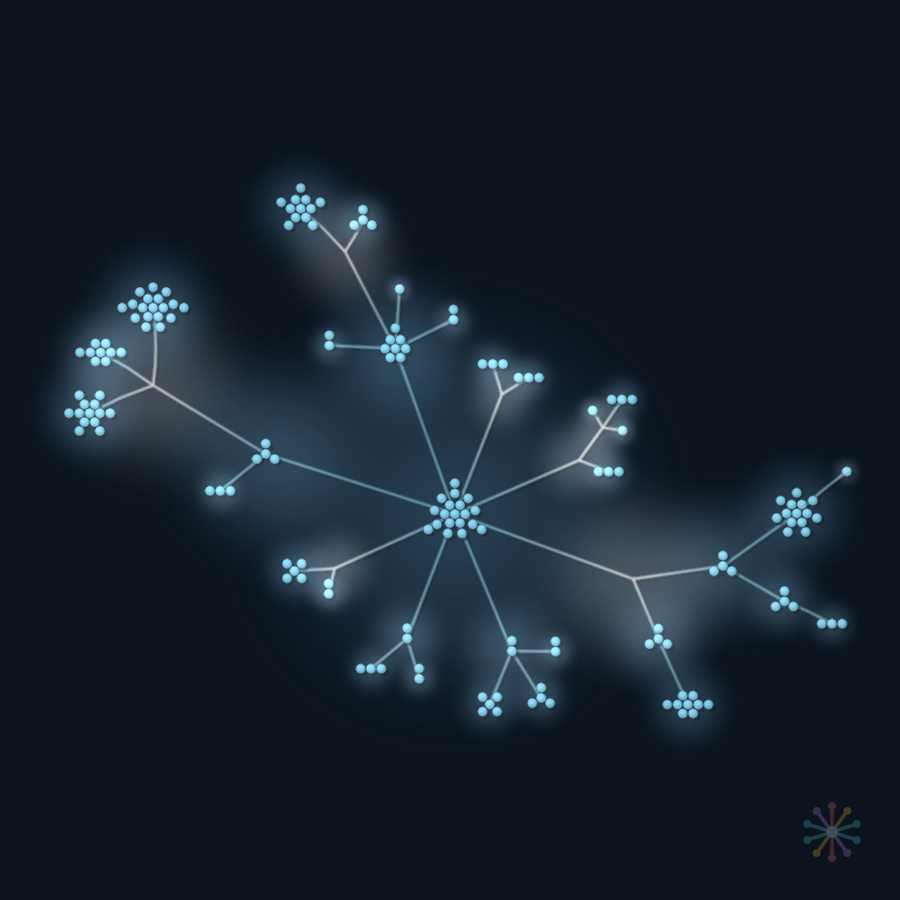
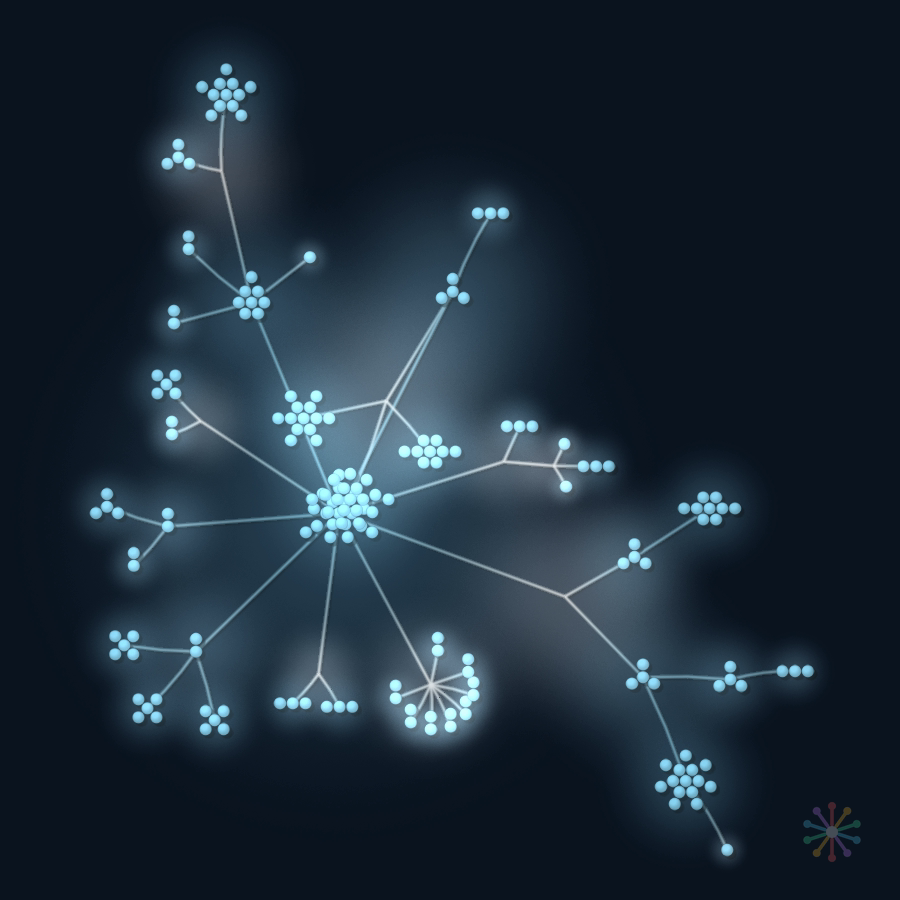
site: weekly update 2026-10-31 (status, chronicles)

diff --git a/history/index.html b/history/index.html
@@ -178,8 +178,8 @@ section.rg-flow{margin-top:var(--rg-space-8);padding:0;background:none;border:0;
 .jc h3 a{color:var(--rg-text)}.jc-r{font:500 .7rem/1.7 var(--rg-font-mono);letter-spacing:.08em;text-transform:uppercase;color:var(--rg-text);border-color:var(--pa)}
 .jc-x{font:1rem/1.75 var(--rg-font-body);color:var(--rg-text-soft)}
 @media(max-width:760px){.jig{grid-template-columns:1fr}}
-</style></head><body><header class="tp-top"><div class="tp-in"><a class="tp-brand" href="../"><svg class="tp-logo" viewBox="0 0 64 64" width="28" height="28" aria-hidden="true" focusable="false"><defs><clipPath id="rg-doc"><path d="M13 16H33A7 7 0 0 1 40 23V51A7 7 0 0 1 33 58H13A7 7 0 0 1 6 51V23A7 7 0 0 1 13 16Z"/></clipPath></defs><path fill="var(--rg-logo-doc)" d="M13 16H33A7 7 0 0 1 40 23V51A7 7 0 0 1 33 58H13A7 7 0 0 1 6 51V23A7 7 0 0 1 13 16Z"/><path fill="var(--rg-logo-lens)" d="M24 23A17 17 0 1 0 58 23A17 17 0 1 0 24 23Z"/><path fill="var(--rg-logo-hit)" d="M24 23A17 17 0 1 0 58 23A17 17 0 1 0 24 23Z" clip-path="url(#rg-doc)"/></svg><span class="tp-id"><b>RAGite</b><span class="tp-kick">Rust · SQLite extension · Model2Vec · Linux x86-64</span></span></a><nav class="tp-tabs" aria-label="Site"><a href="../">Handbook</a><a href="../history/" class="on" aria-current="page">History</a></nav><div class="tp-pair"><span class="tp-pair-l">pair</span><nav class="tp-seg" aria-label="Sibling sites"><a href="https://pihme.github.io/ragite/" class="on" aria-current="true"><svg class="tp-chip tp-logo" viewBox="0 0 64 64" width="24" height="24" aria-hidden="true" focusable="false"><defs><clipPath id="rg-doc-chip-ragite"><path d="M13 16H33A7 7 0 0 1 40 23V51A7 7 0 0 1 33 58H13A7 7 0 0 1 6 51V23A7 7 0 0 1 13 16Z"/></clipPath></defs><path fill="var(--rg-logo-doc)" d="M13 16H33A7 7 0 0 1 40 23V51A7 7 0 0 1 33 58H13A7 7 0 0 1 6 51V23A7 7 0 0 1 13 16Z"/><path fill="var(--rg-logo-lens)" d="M24 23A17 17 0 1 0 58 23A17 17 0 1 0 24 23Z"/><path fill="var(--rg-logo-hit)" d="M24 23A17 17 0 1 0 58 23A17 17 0 1 0 24 23Z" clip-path="url(#rg-doc-chip-ragite)"/></svg>RAGite</a><a href="https://pihme.github.io/ragite-demo/"><svg class="tp-chip tp-logo" viewBox="0 0 64 64" width="24" height="24" aria-hidden="true" focusable="false"><defs><clipPath id="rg-doc-chip-ragite-demo"><path d="M13 16H33A7 7 0 0 1 40 23V51A7 7 0 0 1 33 58H13A7 7 0 0 1 6 51V23A7 7 0 0 1 13 16Z"/></clipPath></defs><path fill="var(--rg-logo-doc)" d="M13 16H33A7 7 0 0 1 40 23V51A7 7 0 0 1 33 58H13A7 7 0 0 1 6 51V23A7 7 0 0 1 13 16Z"/><path fill="var(--rg-logo-lens-demo)" d="M24 23A17 17 0 1 0 58 23A17 17 0 1 0 24 23Z"/><path fill="var(--rg-logo-hit)" d="M24 23A17 17 0 1 0 58 23A17 17 0 1 0 24 23Z" clip-path="url(#rg-doc-chip-ragite-demo)"/></svg>RAGite demo</a></nav></div><nav class="tp-ext" aria-label="Project links"><a class="tp-ib" href="https://github.com/pihme/ragite/blob/main/docs/guide.md" aria-label="User guide" data-tip="User guide"><svg viewBox="0 0 24 24" fill="none" stroke="currentColor" stroke-width="1.8" stroke-linecap="round" stroke-linejoin="round" aria-hidden="true" focusable="false"><path d="M4 19.5V5.5A2.5 2.5 0 0 1 6.5 3H20v14.5H6.5A2.5 2.5 0 0 0 4 20a1 1 0 0 0 1 1h15"/><path d="M8.5 7.5h7M8.5 11h5"/></svg></a><a class="tp-ib" href="https://github.com/pihme/ragite/blob/main/SPEC.md" aria-label="Specification" data-tip="Specification"><svg viewBox="0 0 24 24" fill="none" stroke="currentColor" stroke-width="1.8" stroke-linecap="round" stroke-linejoin="round" aria-hidden="true" focusable="false"><path d="M14 3H6.5A1.5 1.5 0 0 0 5 4.5v15A1.5 1.5 0 0 0 6.5 21h11a1.5 1.5 0 0 0 1.5-1.5V8z"/><path d="M14 3v5h5M8.5 13h7M8.5 16.5h5"/></svg></a><a class="tp-ib" href="https://github.com/pihme/ragite/releases" aria-label="Releases" data-tip="Releases"><svg viewBox="0 0 24 24" fill="none" stroke="currentColor" stroke-width="1.8" stroke-linecap="round" stroke-linejoin="round" aria-hidden="true" focusable="false"><path d="M3 12.2V4.5A1.5 1.5 0 0 1 4.5 3h7.7l8.8 8.8-9.2 9.2z"/><circle cx="8" cy="8" r="1.6"/></svg></a><a class="tp-ib" href="https://github.com/pihme/ragite/issues" aria-label="Issues" data-tip="Issues"><svg viewBox="0 0 24 24" fill="none" stroke="currentColor" stroke-width="1.8" stroke-linecap="round" stroke-linejoin="round" aria-hidden="true" focusable="false"><circle cx="12" cy="12" r="8.5"/><circle cx="12" cy="12" r="1.6" fill="currentColor" stroke="none"/></svg></a><a class="tp-ib" href="https://github.com/pihme/ragite" aria-label="GitHub repository" data-tip="GitHub repository"><svg viewBox="0 0 16 16" fill="currentColor" aria-hidden="true" focusable="false"><path d="M8 0C3.58 0 0 3.58 0 8c0 3.54 2.29 6.53 5.47 7.59.4.07.55-.17.55-.38 0-.19-.01-.82-.01-1.49-2.01.37-2.53-.49-2.69-.94-.09-.23-.48-.94-.82-1.13-.28-.15-.68-.52-.01-.53.63-.01 1.08.58 1.23.82.72 1.21 1.87.87 2.33.66.07-.52.28-.87.51-1.07-1.78-.2-3.64-.89-3.64-3.95 0-.87.31-1.59.82-2.15-.08-.2-.36-1.02.08-2.12 0 0 .67-.21 2.2.82.64-.18 1.32-.27 2-.27.68 0 1.36.09 2 .27 1.53-1.04 2.2-.82 2.2-.82.44 1.1.16 1.92.08 2.12.51.56.82 1.27.82 2.15 0 3.07-1.87 3.75-3.65 3.95.29.25.54.73.54 1.48 0 1.07-.01 1.93-.01 2.2 0 .21.15.46.55.38A8.013 8.013 0 0016 8c0-4.42-3.58-8-8-8z"/></svg></a></nav></div></header><div class="tp-wrap tp-full"><main class="tp-page"><div class="crumb"><a href="../">pihme / ragite</a> · <span style="text-transform:uppercase">History</span></div><h1>History</h1><div class="hi-lanes" aria-hidden="true"><span class="hi-rg">RAGITE</span><span></span><span class="hi-dm">RAGITE DEMO</span></div><div class="hi-tl"><div class="hi-mo" id="oct-2026"><div class="hi-c hi-L hi-rg"><span class="hi-lt">RAGITE</span><div class="hi-h"><h2>v1.0.0</h2><a class="hi-btn" href="https://github.com/pihme/ragite/releases/tag/ragite/v1.0.0">Release notes</a></div><a class="cfz" href="img/ragite-2026-10-full.png" title="Show larger"><img class="hi-s" src="img/ragite-2026-10.png" alt="Code Fireworks snapshot of RAGite at v1.0.0" width="460" height="460" loading="lazy"></a><a class="hi-cap" href="https://x.com/code_fireworks"><b>✳</b> Code Fireworks</a></div><div class="hi-lw"><span class="hi-pill">Oct 2026</span></div><div class="hi-c hi-R hi-dm"><span class="hi-lt">RAGITE DEMO</span><div class="hi-h"><h2>v1.0.0</h2><a class="hi-btn" href="https://github.com/pihme/ragite-demo/releases/tag/ragite-demo/v1.0.0">Release notes</a></div><a class="cfz" href="img/ragite-demo-2026-10-full.png" title="Show larger"><img class="hi-s" src="img/ragite-demo-2026-10.png" alt="Code Fireworks snapshot of RAGite demo at v1.0.0" width="460" height="460" loading="lazy"></a><a class="hi-cap" href="https://x.com/code_fireworks"><b>✳</b> Code Fireworks</a></div></div></div>
+</style></head><body><header class="tp-top"><div class="tp-in"><a class="tp-brand" href="../"><svg class="tp-logo" viewBox="0 0 64 64" width="28" height="28" aria-hidden="true" focusable="false"><defs><clipPath id="rg-doc"><path d="M13 16H33A7 7 0 0 1 40 23V51A7 7 0 0 1 33 58H13A7 7 0 0 1 6 51V23A7 7 0 0 1 13 16Z"/></clipPath></defs><path fill="var(--rg-logo-doc)" d="M13 16H33A7 7 0 0 1 40 23V51A7 7 0 0 1 33 58H13A7 7 0 0 1 6 51V23A7 7 0 0 1 13 16Z"/><path fill="var(--rg-logo-lens)" d="M24 23A17 17 0 1 0 58 23A17 17 0 1 0 24 23Z"/><path fill="var(--rg-logo-hit)" d="M24 23A17 17 0 1 0 58 23A17 17 0 1 0 24 23Z" clip-path="url(#rg-doc)"/></svg><span class="tp-id"><b>RAGite</b><span class="tp-kick">Rust · SQLite extension · Model2Vec · Linux x86-64</span></span></a><nav class="tp-tabs" aria-label="Site"><a href="../">Handbook</a><a href="../history/" class="on" aria-current="page">History</a></nav><div class="tp-pair"><span class="tp-pair-l">pair</span><nav class="tp-seg" aria-label="Sibling sites"><a href="https://pihme.github.io/ragite/" class="on" aria-current="true"><svg class="tp-chip tp-logo" viewBox="0 0 64 64" width="24" height="24" aria-hidden="true" focusable="false"><defs><clipPath id="rg-doc-chip-ragite"><path d="M13 16H33A7 7 0 0 1 40 23V51A7 7 0 0 1 33 58H13A7 7 0 0 1 6 51V23A7 7 0 0 1 13 16Z"/></clipPath></defs><path fill="var(--rg-logo-doc)" d="M13 16H33A7 7 0 0 1 40 23V51A7 7 0 0 1 33 58H13A7 7 0 0 1 6 51V23A7 7 0 0 1 13 16Z"/><path fill="var(--rg-logo-lens)" d="M24 23A17 17 0 1 0 58 23A17 17 0 1 0 24 23Z"/><path fill="var(--rg-logo-hit)" d="M24 23A17 17 0 1 0 58 23A17 17 0 1 0 24 23Z" clip-path="url(#rg-doc-chip-ragite)"/></svg>RAGite</a><a href="https://pihme.github.io/ragite-demo/"><svg class="tp-chip tp-logo" viewBox="0 0 64 64" width="24" height="24" aria-hidden="true" focusable="false"><defs><clipPath id="rg-doc-chip-ragite-demo"><path d="M13 16H33A7 7 0 0 1 40 23V51A7 7 0 0 1 33 58H13A7 7 0 0 1 6 51V23A7 7 0 0 1 13 16Z"/></clipPath></defs><path fill="var(--rg-logo-doc)" d="M13 16H33A7 7 0 0 1 40 23V51A7 7 0 0 1 33 58H13A7 7 0 0 1 6 51V23A7 7 0 0 1 13 16Z"/><path fill="var(--rg-logo-lens-demo)" d="M24 23A17 17 0 1 0 58 23A17 17 0 1 0 24 23Z"/><path fill="var(--rg-logo-hit)" d="M24 23A17 17 0 1 0 58 23A17 17 0 1 0 24 23Z" clip-path="url(#rg-doc-chip-ragite-demo)"/></svg>RAGite demo</a></nav></div><nav class="tp-ext" aria-label="Project links"><a class="tp-ib" href="https://github.com/pihme/ragite/blob/main/docs/guide.md" aria-label="User guide" data-tip="User guide"><svg viewBox="0 0 24 24" fill="none" stroke="currentColor" stroke-width="1.8" stroke-linecap="round" stroke-linejoin="round" aria-hidden="true" focusable="false"><path d="M4 19.5V5.5A2.5 2.5 0 0 1 6.5 3H20v14.5H6.5A2.5 2.5 0 0 0 4 20a1 1 0 0 0 1 1h15"/><path d="M8.5 7.5h7M8.5 11h5"/></svg></a><a class="tp-ib" href="https://github.com/pihme/ragite/blob/main/SPEC.md" aria-label="Specification" data-tip="Specification"><svg viewBox="0 0 24 24" fill="none" stroke="currentColor" stroke-width="1.8" stroke-linecap="round" stroke-linejoin="round" aria-hidden="true" focusable="false"><path d="M14 3H6.5A1.5 1.5 0 0 0 5 4.5v15A1.5 1.5 0 0 0 6.5 21h11a1.5 1.5 0 0 0 1.5-1.5V8z"/><path d="M14 3v5h5M8.5 13h7M8.5 16.5h5"/></svg></a><a class="tp-ib" href="https://github.com/pihme/ragite/releases" aria-label="Releases" data-tip="Releases"><svg viewBox="0 0 24 24" fill="none" stroke="currentColor" stroke-width="1.8" stroke-linecap="round" stroke-linejoin="round" aria-hidden="true" focusable="false"><path d="M3 12.2V4.5A1.5 1.5 0 0 1 4.5 3h7.7l8.8 8.8-9.2 9.2z"/><circle cx="8" cy="8" r="1.6"/></svg></a><a class="tp-ib" href="https://github.com/pihme/ragite/issues" aria-label="Issues" data-tip="Issues"><svg viewBox="0 0 24 24" fill="none" stroke="currentColor" stroke-width="1.8" stroke-linecap="round" stroke-linejoin="round" aria-hidden="true" focusable="false"><circle cx="12" cy="12" r="8.5"/><circle cx="12" cy="12" r="1.6" fill="currentColor" stroke="none"/></svg></a><a class="tp-ib" href="https://github.com/pihme/ragite" aria-label="GitHub repository" data-tip="GitHub repository"><svg viewBox="0 0 16 16" fill="currentColor" aria-hidden="true" focusable="false"><path d="M8 0C3.58 0 0 3.58 0 8c0 3.54 2.29 6.53 5.47 7.59.4.07.55-.17.55-.38 0-.19-.01-.82-.01-1.49-2.01.37-2.53-.49-2.69-.94-.09-.23-.48-.94-.82-1.13-.28-.15-.68-.52-.01-.53.63-.01 1.08.58 1.23.82.72 1.21 1.87.87 2.33.66.07-.52.28-.87.51-1.07-1.78-.2-3.64-.89-3.64-3.95 0-.87.31-1.59.82-2.15-.08-.2-.36-1.02.08-2.12 0 0 .67-.21 2.2.82.64-.18 1.32-.27 2-.27.68 0 1.36.09 2 .27 1.53-1.04 2.2-.82 2.2-.82.44 1.1.16 1.92.08 2.12.51.56.82 1.27.82 2.15 0 3.07-1.87 3.75-3.65 3.95.29.25.54.73.54 1.48 0 1.07-.01 1.93-.01 2.2 0 .21.15.46.55.38A8.013 8.013 0 0016 8c0-4.42-3.58-8-8-8z"/></svg></a></nav></div></header><div class="tp-wrap tp-full"><main class="tp-page"><div class="crumb"><a href="../">pihme / ragite</a> · <span style="text-transform:uppercase">History</span></div><h1>History</h1><div class="hi-lanes" aria-hidden="true"><span class="hi-rg">RAGITE</span><span></span><span class="hi-dm">RAGITE DEMO</span></div><div class="hi-tl"><div class="hi-mo" id="oct-2026"><div class="hi-c hi-L hi-rg"><span class="hi-lt">RAGITE</span><div class="hi-h"><h2>v1.1.0</h2><a class="hi-btn" href="https://github.com/pihme/ragite/releases/tag/ragite/v1.1.0">Release notes</a></div><a class="cfz" href="img/ragite-2026-10-full.png" title="Show larger"><img class="hi-s" src="img/ragite-2026-10.png" alt="Code Fireworks snapshot of RAGite at v1.1.0" width="460" height="460" loading="lazy"></a><a class="hi-cap" href="https://x.com/code_fireworks"><b>✳</b> Code Fireworks</a></div><div class="hi-lw"><span class="hi-pill">Oct 2026</span></div><div class="hi-c hi-R hi-dm"><span class="hi-lt">RAGITE DEMO</span><div class="hi-h"><h2>v1.0.0</h2><a class="hi-btn" href="https://github.com/pihme/ragite-demo/releases/tag/ragite-demo/v1.0.0">Release notes</a></div><a class="cfz" href="img/ragite-demo-2026-10-full.png" title="Show larger"><img class="hi-s" src="img/ragite-demo-2026-10.png" alt="Code Fireworks snapshot of RAGite demo at v1.0.0" width="460" height="460" loading="lazy"></a><a class="hi-cap" href="https://x.com/code_fireworks"><b>✳</b> Code Fireworks</a></div></div></div>
 <dialog class="cfbox" aria-label="Enlarged Code Fireworks render"><img alt="" width="900" height="900"><button type="button" class="cfx" aria-label="Close">&times;</button></dialog>
 <script>(function(){var d=document.querySelector('.cfbox');if(!d||!d.showModal)return;var i=d.querySelector('img');
 document.querySelectorAll('a.cfz').forEach(function(a){a.addEventListener('click',function(e){e.preventDefault();i.src=a.href;i.alt=a.querySelector('img').alt;d.showModal();});});
-d.addEventListener('click',function(){d.close();});d.addEventListener('close',function(){i.removeAttribute('src');});})();</script><footer><svg class="tp-logo" viewBox="0 0 64 64" width="16" height="16" aria-hidden="true" focusable="false"><defs><clipPath id="rg-doc-foot"><path d="M13 16H33A7 7 0 0 1 40 23V51A7 7 0 0 1 33 58H13A7 7 0 0 1 6 51V23A7 7 0 0 1 13 16Z"/></clipPath></defs><path fill="var(--rg-logo-doc)" d="M13 16H33A7 7 0 0 1 40 23V51A7 7 0 0 1 33 58H13A7 7 0 0 1 6 51V23A7 7 0 0 1 13 16Z"/><path fill="var(--rg-logo-lens)" d="M24 23A17 17 0 1 0 58 23A17 17 0 1 0 24 23Z"/><path fill="var(--rg-logo-hit)" d="M24 23A17 17 0 1 0 58 23A17 17 0 1 0 24 23Z" clip-path="url(#rg-doc-foot)"/></svg><nav class="tp-fnav"><a href="../">Handbook</a> · <a href="../history/" aria-current="page">History</a></nav><span>Last updated 2026-10-24 · generated from <a href="https://github.com/pihme/ragite/tree/8759f4db92a8f6e7a9cabb6e5f27f2f3398adf35"><code>main@8759f4d</code></a> · <a href="https://github.com/pihme/ragite/blob/main/LICENSE-MIT">MIT</a> OR <a href="https://github.com/pihme/ragite/blob/main/LICENSE-APACHE">Apache-2.0</a>, at your option · <a class="tp-ci" href="https://github.com/pihme/ragite/actions/workflows/ci.yml" title="CI workflow runs on GitHub Actions">CI</a></span></footer></main></div></body></html>
+d.addEventListener('click',function(){d.close();});d.addEventListener('close',function(){i.removeAttribute('src');});})();</script><footer><svg class="tp-logo" viewBox="0 0 64 64" width="16" height="16" aria-hidden="true" focusable="false"><defs><clipPath id="rg-doc-foot"><path d="M13 16H33A7 7 0 0 1 40 23V51A7 7 0 0 1 33 58H13A7 7 0 0 1 6 51V23A7 7 0 0 1 13 16Z"/></clipPath></defs><path fill="var(--rg-logo-doc)" d="M13 16H33A7 7 0 0 1 40 23V51A7 7 0 0 1 33 58H13A7 7 0 0 1 6 51V23A7 7 0 0 1 13 16Z"/><path fill="var(--rg-logo-lens)" d="M24 23A17 17 0 1 0 58 23A17 17 0 1 0 24 23Z"/><path fill="var(--rg-logo-hit)" d="M24 23A17 17 0 1 0 58 23A17 17 0 1 0 24 23Z" clip-path="url(#rg-doc-foot)"/></svg><nav class="tp-fnav"><a href="../">Handbook</a> · <a href="../history/" aria-current="page">History</a></nav><span>Last updated 2026-10-31 · generated from <a href="https://github.com/pihme/ragite/tree/df8ceb33385c79fd2adfc2c7ebd2d6caa4ac7b83"><code>main@df8ceb3</code></a> · <a href="https://github.com/pihme/ragite/blob/main/LICENSE-MIT">MIT</a> OR <a href="https://github.com/pihme/ragite/blob/main/LICENSE-APACHE">Apache-2.0</a>, at your option · <a class="tp-ci" href="https://github.com/pihme/ragite/actions/workflows/ci.yml" title="CI workflow runs on GitHub Actions">CI</a></span></footer></main></div></body></html>

diff --git a/index.html b/index.html
@@ -189,4 +189,4 @@ INSERT INTO docs(text, source, format)
 VALUES (&#x27;# Installation
 
 Run the installer and restart the application.&#x27;, &#x27;manual.md&#x27;, &#x27;text/markdown&#x27;);
-SELECT chunk, source, score FROM docs_chunks WHERE docs_chunks MATCH &#x27;How do I install it?&#x27; LIMIT 5;</code></pre><p>Pass the path without <code>.so</code>; SQLite adds the suffix. This block is run as a test, so it stays correct. The <a href="https://github.com/pihme/ragite/blob/main/docs/guide.md">user guide</a> covers formats, updates and transactions, linking results to your own tables, the embedding functions and models; its examples run in CI too.</p></section><section id="interface"><h2><span class="num">03</span>Interface</h2><div class="tbl"><table><thead><tr><th>Part</th><th>What it does</th></tr></thead><tbody><tr><td><code>CREATE VIRTUAL TABLE docs USING ragite</code></td><td>The Document table. <code>INSERT</code>, <code>UPDATE</code> and <code>DELETE</code> chunk, embed and index the text; <code>ROLLBACK</code> undoes all of it</td></tr><tr><td><code>docs MATCH 'question'</code></td><td>Hybrid search, one row per Document, ranked by its best chunk</td></tr><tr><td><code>docs_chunks MATCH 'question'</code></td><td>Hybrid search over chunks, with <code>doc_id</code>, <code>source</code>, <code>start</code>, <code>end</code>, <code>heading_path</code> and <code>score</code></td></tr><tr><td>Formats</td><td><code>text/plain</code>, <code>text/markdown</code>, <code>text/html</code> and DoclingDocument JSON</td></tr><tr><td><code>ragite_embed</code> and friends</td><td>Embed text with a table's model, list the models, show the default and a table's model</td></tr></tbody></table></div><p>Scores come from Reciprocal Rank Fusion (k = 60) of the vector ranking and the BM25 ranking, 50 candidates from each. Chunks hold at most 512 Unicode scalars with a 64-scalar overlap.</p></section><section id="models"><h2><span class="num">04</span>Model</h2><p>The built-in default model is <strong>potion-retrieval-32M</strong>, a static Model2Vec model trained for retrieval (English, MIT, 512 dimensions). Its weights are embedded in the extension, so the release <code>libragite.so</code> is about 135 MB. A different model can be built in at build time; each table stores its model's technical id, and a build that does not contain that model refuses the table instead of mixing vectors. A model is not loaded from a path or a URL at run time. No GPU and no ONNX Runtime are needed.</p><p>The chunker, the scoring and the other presets are fixed, the same for every caller. Where they live in the code, and how to add a document type, write or change a chunker or change the fusion: <a href="https://github.com/pihme/ragite/blob/main/docs/tinkering.md">docs/tinkering.md</a>.</p></section><section id="demo" class="plain"><h2><span class="num">05</span>Demo</h2><p><a href="https://pihme.github.io/ragite-demo/">RAGite demo</a> puts RAGite to work: a small Datasette app that searches the SQLite documentation, a few Wikipedia articles and these docs, offline and in one SQLite file.</p></section><section id="license" class="plain"><h2><span class="num">06</span>License</h2><p>Licensed under either of <a href="https://github.com/pihme/ragite/blob/main/LICENSE-MIT">MIT</a> or <a href="https://github.com/pihme/ragite/blob/main/LICENSE-APACHE">Apache-2.0</a> at your option (SPDX: <code>MIT OR Apache-2.0</code>). Bundled model weights keep their own license; all third-party licenses are in <a href="https://github.com/pihme/ragite/blob/main/THIRD_PARTY_NOTICES.md">THIRD_PARTY_NOTICES.md</a>.</p></section><section id="links" class="plain"><h2><span class="num">07</span>Links</h2><p><a href="https://github.com/pihme/ragite">Repository</a> · <a href="https://github.com/pihme/ragite/blob/main/docs/guide.md">User guide</a> · <a href="https://github.com/pihme/ragite/blob/main/SPEC.md">Specification</a> · <a href="https://github.com/pihme/ragite/blob/main/ROADMAP.md">Roadmap</a> · <a href="https://github.com/pihme/ragite/blob/main/CONTRIBUTING.md">Contributing</a></p></section><div class="tp-pairnote"><svg class="tp-mark tp-logo" viewBox="0 0 64 64" width="34" height="34" aria-hidden="true" focusable="false"><defs><clipPath id="rg-doc-note"><path d="M13 16H33A7 7 0 0 1 40 23V51A7 7 0 0 1 33 58H13A7 7 0 0 1 6 51V23A7 7 0 0 1 13 16Z"/></clipPath></defs><path fill="var(--rg-logo-doc)" d="M13 16H33A7 7 0 0 1 40 23V51A7 7 0 0 1 33 58H13A7 7 0 0 1 6 51V23A7 7 0 0 1 13 16Z"/><path fill="var(--rg-logo-lens-demo)" d="M24 23A17 17 0 1 0 58 23A17 17 0 1 0 24 23Z"/><path fill="var(--rg-logo-hit)" d="M24 23A17 17 0 1 0 58 23A17 17 0 1 0 24 23Z" clip-path="url(#rg-doc-note)"/></svg><span><b>RAGite demo</b> is the other half of this pair: Search the SQLite docs and Wikipedia in your browser with RAGite and Datasette, offline and in one SQLite file. <a href="https://pihme.github.io/ragite-demo/">Visit RAGite demo →</a></span></div><footer><svg class="tp-logo" viewBox="0 0 64 64" width="16" height="16" aria-hidden="true" focusable="false"><defs><clipPath id="rg-doc-foot"><path d="M13 16H33A7 7 0 0 1 40 23V51A7 7 0 0 1 33 58H13A7 7 0 0 1 6 51V23A7 7 0 0 1 13 16Z"/></clipPath></defs><path fill="var(--rg-logo-doc)" d="M13 16H33A7 7 0 0 1 40 23V51A7 7 0 0 1 33 58H13A7 7 0 0 1 6 51V23A7 7 0 0 1 13 16Z"/><path fill="var(--rg-logo-lens)" d="M24 23A17 17 0 1 0 58 23A17 17 0 1 0 24 23Z"/><path fill="var(--rg-logo-hit)" d="M24 23A17 17 0 1 0 58 23A17 17 0 1 0 24 23Z" clip-path="url(#rg-doc-foot)"/></svg><nav class="tp-fnav"><a href="./">Handbook</a> · <a href="history/">History</a></nav><span>Last updated 2026-10-24 · generated from <a href="https://github.com/pihme/ragite/tree/8759f4db92a8f6e7a9cabb6e5f27f2f3398adf35"><code>main@8759f4d</code></a> · <a href="https://github.com/pihme/ragite/blob/main/LICENSE-MIT">MIT</a> OR <a href="https://github.com/pihme/ragite/blob/main/LICENSE-APACHE">Apache-2.0</a>, at your option · <a class="tp-ci" href="https://github.com/pihme/ragite/actions/workflows/ci.yml" title="CI workflow runs on GitHub Actions">CI</a></span></footer></main><aside class="tp-toc"><h4>On this page</h4><a href="#what"><b>01</b>What it is</a><a href="#quickstart"><b>02</b>Quickstart</a><a href="#interface"><b>03</b>Interface</a><a href="#models"><b>04</b>Model</a><a href="#demo"><b>05</b>Demo</a><a href="#license"><b>06</b>License</a><a href="#links"><b>07</b>Links</a></aside></div></body></html>
+SELECT chunk, source, score FROM docs_chunks WHERE docs_chunks MATCH &#x27;How do I install it?&#x27; LIMIT 5;</code></pre><p>Pass the path without <code>.so</code>; SQLite adds the suffix. This block is run as a test, so it stays correct. The <a href="https://github.com/pihme/ragite/blob/main/docs/guide.md">user guide</a> covers formats, updates and transactions, linking results to your own tables, the embedding functions and models; its examples run in CI too.</p></section><section id="interface"><h2><span class="num">03</span>Interface</h2><div class="tbl"><table><thead><tr><th>Part</th><th>What it does</th></tr></thead><tbody><tr><td><code>CREATE VIRTUAL TABLE docs USING ragite</code></td><td>The Document table. <code>INSERT</code>, <code>UPDATE</code> and <code>DELETE</code> chunk, embed and index the text; <code>ROLLBACK</code> undoes all of it</td></tr><tr><td><code>docs MATCH 'question'</code></td><td>Hybrid search, one row per Document, ranked by its best chunk</td></tr><tr><td><code>docs_chunks MATCH 'question'</code></td><td>Hybrid search over chunks, with <code>doc_id</code>, <code>source</code>, <code>start</code>, <code>end</code>, <code>heading_path</code> and <code>score</code></td></tr><tr><td>Formats</td><td><code>text/plain</code>, <code>text/markdown</code>, <code>text/html</code> and DoclingDocument JSON</td></tr><tr><td><code>ragite_embed</code> and friends</td><td>Embed text with a table's model, list the models, show the default and a table's model</td></tr></tbody></table></div><p>Scores come from Reciprocal Rank Fusion (k = 60) of the vector ranking and the BM25 ranking, 50 candidates from each. Chunks hold at most 512 Unicode scalars with a 64-scalar overlap.</p></section><section id="models"><h2><span class="num">04</span>Model</h2><p>The built-in default model is <strong>potion-retrieval-32M</strong>, a static Model2Vec model trained for retrieval (English, MIT, 512 dimensions). Its weights are embedded in the extension, so the release <code>libragite.so</code> is about 135 MB. A different model can be built in at build time; each table stores its model's technical id, and a build that does not contain that model refuses the table instead of mixing vectors. A model is not loaded from a path or a URL at run time. No GPU and no ONNX Runtime are needed.</p><p>The chunker, the scoring and the other presets are fixed, the same for every caller. Where they live in the code, and how to add a document type, write or change a chunker or change the fusion: <a href="https://github.com/pihme/ragite/blob/main/docs/tinkering.md">docs/tinkering.md</a>.</p></section><section id="demo" class="plain"><h2><span class="num">05</span>Demo</h2><p><a href="https://pihme.github.io/ragite-demo/">RAGite demo</a> puts RAGite to work: a small Datasette app that searches the SQLite documentation, a few Wikipedia articles and these docs, offline and in one SQLite file.</p></section><section id="license" class="plain"><h2><span class="num">06</span>License</h2><p>Licensed under either of <a href="https://github.com/pihme/ragite/blob/main/LICENSE-MIT">MIT</a> or <a href="https://github.com/pihme/ragite/blob/main/LICENSE-APACHE">Apache-2.0</a> at your option (SPDX: <code>MIT OR Apache-2.0</code>). Bundled model weights keep their own license; all third-party licenses are in <a href="https://github.com/pihme/ragite/blob/main/THIRD_PARTY_NOTICES.md">THIRD_PARTY_NOTICES.md</a>.</p></section><section id="links" class="plain"><h2><span class="num">07</span>Links</h2><p><a href="https://github.com/pihme/ragite">Repository</a> · <a href="https://github.com/pihme/ragite/blob/main/docs/guide.md">User guide</a> · <a href="https://github.com/pihme/ragite/blob/main/SPEC.md">Specification</a> · <a href="https://github.com/pihme/ragite/blob/main/ROADMAP.md">Roadmap</a> · <a href="https://github.com/pihme/ragite/blob/main/CONTRIBUTING.md">Contributing</a></p></section><div class="tp-pairnote"><svg class="tp-mark tp-logo" viewBox="0 0 64 64" width="34" height="34" aria-hidden="true" focusable="false"><defs><clipPath id="rg-doc-note"><path d="M13 16H33A7 7 0 0 1 40 23V51A7 7 0 0 1 33 58H13A7 7 0 0 1 6 51V23A7 7 0 0 1 13 16Z"/></clipPath></defs><path fill="var(--rg-logo-doc)" d="M13 16H33A7 7 0 0 1 40 23V51A7 7 0 0 1 33 58H13A7 7 0 0 1 6 51V23A7 7 0 0 1 13 16Z"/><path fill="var(--rg-logo-lens-demo)" d="M24 23A17 17 0 1 0 58 23A17 17 0 1 0 24 23Z"/><path fill="var(--rg-logo-hit)" d="M24 23A17 17 0 1 0 58 23A17 17 0 1 0 24 23Z" clip-path="url(#rg-doc-note)"/></svg><span><b>RAGite demo</b> is the other half of this pair: Search the SQLite docs and Wikipedia in your browser with RAGite and Datasette, offline and in one SQLite file. <a href="https://pihme.github.io/ragite-demo/">Visit RAGite demo →</a></span></div><footer><svg class="tp-logo" viewBox="0 0 64 64" width="16" height="16" aria-hidden="true" focusable="false"><defs><clipPath id="rg-doc-foot"><path d="M13 16H33A7 7 0 0 1 40 23V51A7 7 0 0 1 33 58H13A7 7 0 0 1 6 51V23A7 7 0 0 1 13 16Z"/></clipPath></defs><path fill="var(--rg-logo-doc)" d="M13 16H33A7 7 0 0 1 40 23V51A7 7 0 0 1 33 58H13A7 7 0 0 1 6 51V23A7 7 0 0 1 13 16Z"/><path fill="var(--rg-logo-lens)" d="M24 23A17 17 0 1 0 58 23A17 17 0 1 0 24 23Z"/><path fill="var(--rg-logo-hit)" d="M24 23A17 17 0 1 0 58 23A17 17 0 1 0 24 23Z" clip-path="url(#rg-doc-foot)"/></svg><nav class="tp-fnav"><a href="./">Handbook</a> · <a href="history/">History</a></nav><span>Last updated 2026-10-31 · generated from <a href="https://github.com/pihme/ragite/tree/df8ceb33385c79fd2adfc2c7ebd2d6caa4ac7b83"><code>main@df8ceb3</code></a> · <a href="https://github.com/pihme/ragite/blob/main/LICENSE-MIT">MIT</a> OR <a href="https://github.com/pihme/ragite/blob/main/LICENSE-APACHE">Apache-2.0</a>, at your option · <a class="tp-ci" href="https://github.com/pihme/ragite/actions/workflows/ci.yml" title="CI workflow runs on GitHub Actions">CI</a></span></footer></main><aside class="tp-toc"><h4>On this page</h4><a href="#what"><b>01</b>What it is</a><a href="#quickstart"><b>02</b>Quickstart</a><a href="#interface"><b>03</b>Interface</a><a href="#models"><b>04</b>Model</a><a href="#demo"><b>05</b>Demo</a><a href="#license"><b>06</b>License</a><a href="#links"><b>07</b>Links</a></aside></div></body></html>

diff --git a/SOURCE.md b/SOURCE.md
@@ -2,7 +2,7 @@
 
 This branch holds the static GitHub Pages site for `pihme/ragite`.
 
-Generated on 2026-10-24 from `main` at commit `8759f4db92a8f6e7a9cabb6e5f27f2f3398adf35`.
+Generated on 2026-10-31 from `main` at commit `df8ceb33385c79fd2adfc2c7ebd2d6caa4ac7b83`.
 Self-contained `index.html`, and, where present, `namesake/index.html` (from `namesake-<repo>.json`), all with inline CSS, no build step, no trackers; plus favicons (`favicon.svg`, `favicon.png`, `apple-touch-icon.png`) and `.nojekyll`.
 Theme `pair` (`theme_pair.py`), with self-hosted fonts in `assets/` (SIL OFL 1.1, licence texts alongside), plus `site.webmanifest` with 192/512 icons and, where the site has its own icons, `favicon.ico`, `og-image.png` and `assets/logo/`.
 Generator: `gen.py` (layout B, sidebar handbook) + per-site content script + `family.json` project-family registry + `status-<repo>.json` (Current status; open issues and releases pulled live via `gh` at build time).
